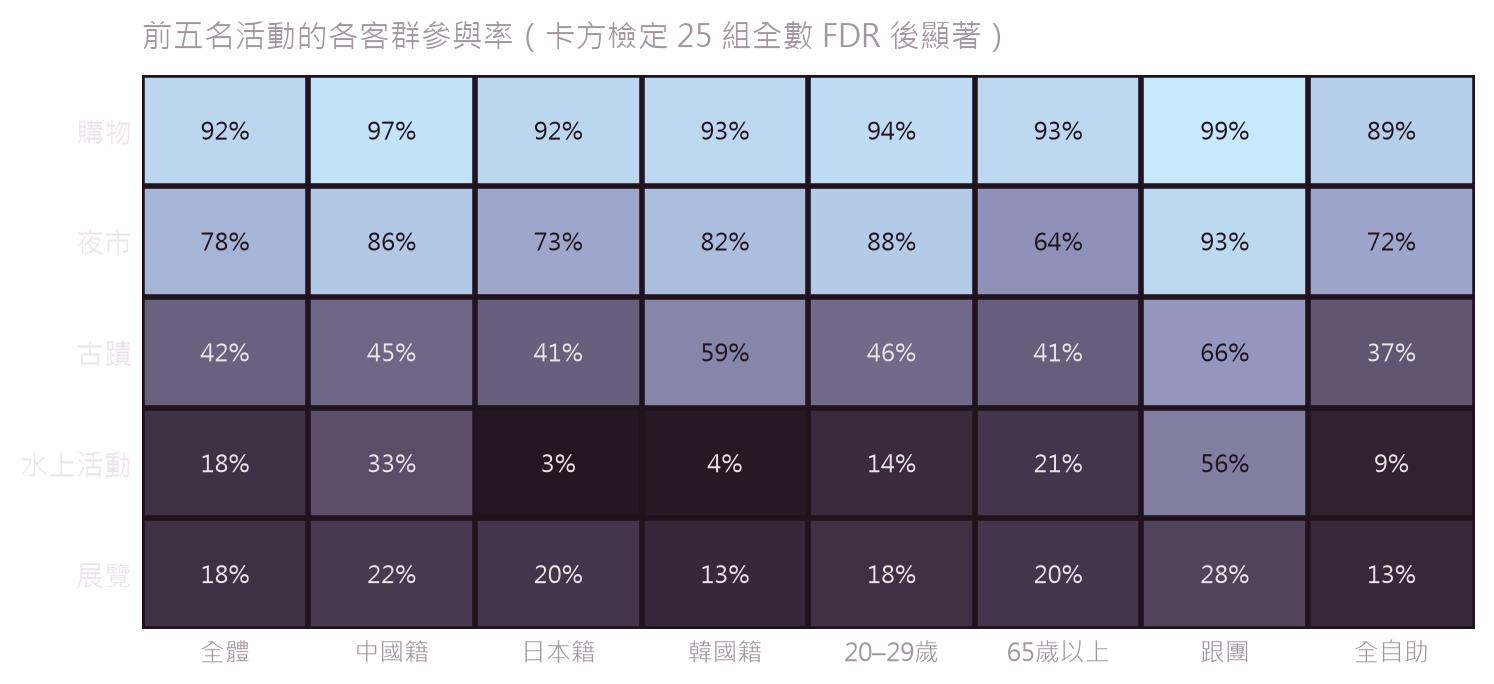
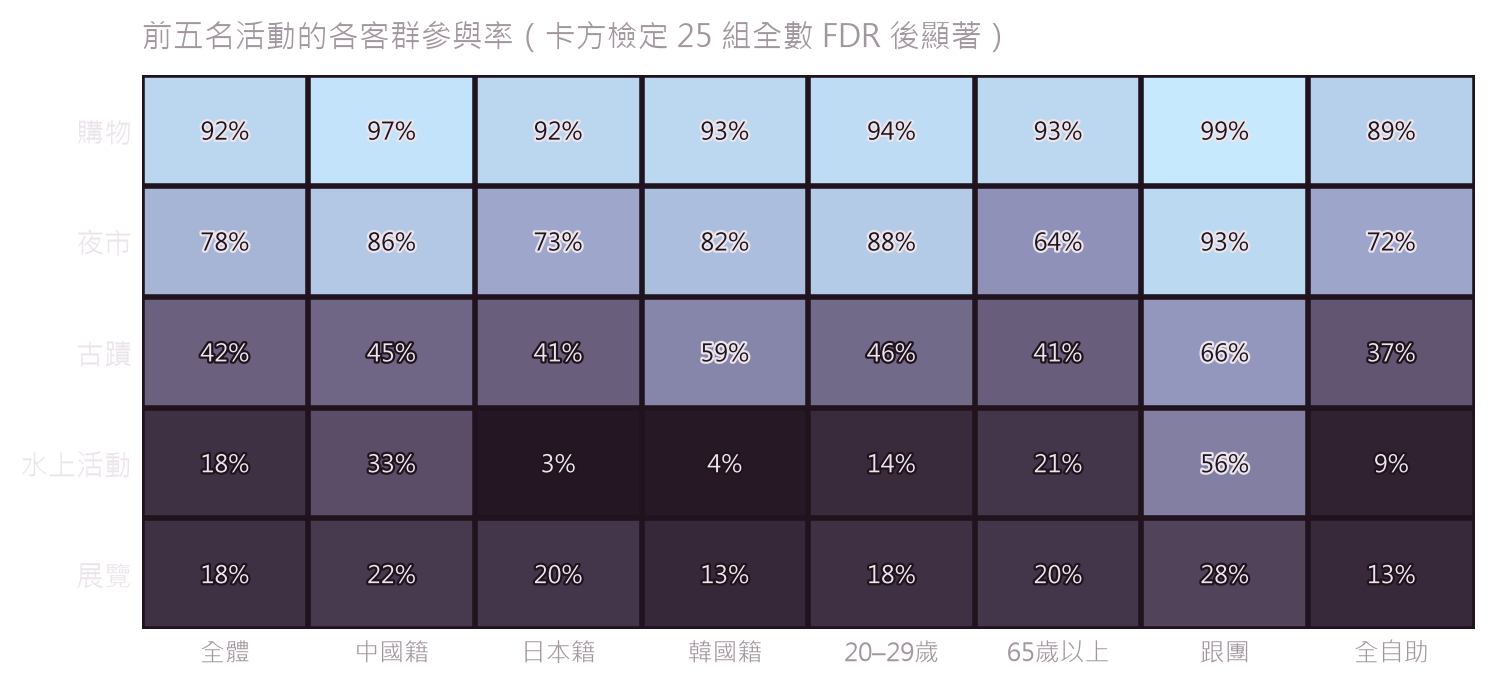
三項發佈前小修：圖表可點開、熱圖數字描邊、導覽列底提到 92%
**圖表點開看原圖**（四個統計頁共 16 張）。手機上圖被縮到 0.17–0.22 倍、
軸標約 5px，那不是「小」是「看不到」。每張圖包一層連到原圖的連結，點一下
用瀏覽器原生的縮放看，桌機也順便有「看大圖」。零 JavaScript、沒有 JS 也能用、
鍵盤可聚焦。包圖的連結不繼承內文那條虛線底線。

**熱圖格內數字加細描邊。**上一版把魔術門檻換成「量對比取高者」，最壞從 2.73
拉到 3.99——但色帶中段（L≈56）對深淺兩個字色都只有約 4.0，那是這條
20.6→91.9 的色帶的固有限制，不是門檻挑錯。描一圈相反色的 1.6px 邊，字就有
自己的高對比邊界，不必動色帶也不必動字色。21 張圖重跑。

**導覽列底 85% → 92%。**亮圖捲到黏性導覽列下方時，muted 連結最壞掉到 4.34
（第三輪抗辯用實測背景場量到的）。提到 92% 後是 5.31，玻璃感仍在——後面
還有 6px 模糊。白名單同步改 `#20131dd9` → `#20131deb`。

六類檢查全綠，十個自我檢查案例全部正確變紅。

diff --git a/src/styles/global.css b/src/styles/global.css
@@ -45,7 +45,7 @@
 	--color-accent: #7998c3;
 	--color-accent-fade: #7998c355; /* 捲軸拉桿＝元素主色 33% */
 	--color-accent-bloom: rgba(121, 152, 195, 0.1); /* 背景右上的藍暈 */
-	--color-nav-bg: #20131dd9; /* 導覽列半透明底＝背景主色 85% */
+	--color-nav-bg: #20131deb; /* 導覽列半透明底＝背景主色 92%。85% 時亮圖捲到導覽列下方，muted 連結掉到 4.41 */
 	/* 背景左下的黑莓暗暈。刻意不上階：它與上面那道藍暈成對，是背景主色的組成，
 	   不是承載層級的表面——上了階會被連帶提亮，那道暈就沒了。 */
 	--color-bloom-dark: #2a1829;
@@ -663,6 +663,12 @@ main > h1 {
 .content a {
 	text-decoration: underline dotted;
 	text-underline-offset: 4px;
+}
+
+/* 圖表外面那層連結只是「點開看原圖」的載體，不是行文裡的連結 */
+.content a:has(> img) {
+	text-decoration: none;
+	display: block;
 }
 
 .content img {

diff --git a/src/content/projects/stats/taiwan-tourism.md b/src/content/projects/stats/taiwan-tourism.md
@@ -63,7 +63,7 @@ date: 2026-07-24
 
 <p>算出來最強的是停留天數，0.507。待越久花越多這件事不意外，不過強度高到可以說，想知道一個旅客花多少錢，先問他待幾天就好。其他因素都遠遠落後，出發前多早開始計畫只有 0.127，來過幾次幾乎是零。</p>
 
-<img src="/images/taiwan-tourism/q1-total-usd.png" alt="總消費金額的相關性與效果量" width="860" loading="lazy" />
+<a href="/images/taiwan-tourism/q1-total-usd.png"><img src="/images/taiwan-tourism/q1-total-usd.png" alt="總消費金額的相關性與效果量" width="860" loading="lazy" /></a>
 
 <p>不過總花費多，可能只是因為待得久。所以我換一個問法：<b>改看每天花多少。</b></p>
 
@@ -75,7 +75,7 @@ date: 2026-07-24
 
 <p>撇開這個陷阱，每天花多少的真正答案是<b>來台目的</b>。來洽公的、來玩的、來探親的，每天的開銷結構完全不同。</p>
 
-<img src="/images/taiwan-tourism/q2-daily-usd.png" alt="日均消費金額的相關性與效果量" width="860" loading="lazy" />
+<a href="/images/taiwan-tourism/q2-daily-usd.png"><img src="/images/taiwan-tourism/q2-daily-usd.png" alt="日均消費金額的相關性與效果量" width="860" loading="lazy" /></a>
 
 <details>
 <summary>為什麼用這些方法</summary>
@@ -109,7 +109,7 @@ date: 2026-07-24
 
 <p>換成上面那個能量化大小的指標，六個因素立刻拉開成十倍以上的差距。最後一名的旅遊方式只有 0.023，統計上確實有差，但小到任何決策都不必理它。<b>顯著跟重要是兩件事。</b></p>
 
-<img src="/images/taiwan-tourism/q3-stay.png" alt="影響停留夜數的類別因子效果量" width="860" loading="lazy" />
+<a href="/images/taiwan-tourism/q3-stay.png"><img src="/images/taiwan-tourism/q3-stay.png" alt="影響停留夜數的類別因子效果量" width="860" loading="lazy" /></a>
 
 <details>
 <summary>為什麼用這些方法</summary>
@@ -131,7 +131,7 @@ date: 2026-07-24
 
 <p>下面這張圖，每一格是某一群人做某件事的比例，顏色越亮代表比例越高。</p>
 
-<img src="/images/taiwan-tourism/q4-activities.png" alt="前五名活動的各客群參與率熱圖" width="860" loading="lazy" />
+<a href="/images/taiwan-tourism/q4-activities.png"><img src="/images/taiwan-tourism/q4-activities.png" alt="前五名活動的各客群參與率熱圖" width="860" loading="lazy" /></a>
 
 <p>購物跟夜市幾乎人人都去，整排都是亮的。這兩件事沒辦法區分客群，因為所有人都做。</p>
 
@@ -141,7 +141,7 @@ date: 2026-07-24
 
 <p>再看另一個角度：什麼決定了一個人選擇跟團還是自己玩？</p>
 
-<img src="/images/taiwan-tourism/q5-travel-type.png" alt="各旅遊方式的國籍組成熱圖" width="860" loading="lazy" />
+<a href="/images/taiwan-tourism/q5-travel-type.png"><img src="/images/taiwan-tourism/q5-travel-type.png" alt="各旅遊方式的國籍組成熱圖" width="860" loading="lazy" /></a>
 
 <p>答案又是國籍，關聯強度 0.190，是六個因素裡最高的。想猜一個旅客會怎麼安排行程，知道他從哪裡來最有幫助。最沒用的是性別，只有 0.061，男生女生選擇跟團或自助的比例幾乎一樣。</p>
 
@@ -171,13 +171,13 @@ date: 2026-07-24
 
 <p>先照標準做法算相關係數看看。</p>
 
-<img src="/images/taiwan-tourism/q6-revisit-yes.png" alt="願意重遊的正相關特徵" width="860" loading="lazy" />
+<a href="/images/taiwan-tourism/q6-revisit-yes.png"><img src="/images/taiwan-tourism/q6-revisit-yes.png" alt="願意重遊的正相關特徵" width="860" loading="lazy" /></a>
 
 <p>結果所有數字都很小，最高的才 0.068。關聯是有的，只是一面倒的資料會把這種係數壓在很低的天花板下。<b>所以這張圖只能看排名，不能看數值大小。</b></p>
 
 <p>反過來看不願意再來的那一邊，我沒有重算一次。因為答案只有「會」跟「不會」兩種，沒有第三個選項，所以「跟不願意的關聯」在數學上就是上面那張圖的數字前面加個負號。確認過確實只有兩類之後，直接翻面就好，重算不會多出任何資訊。</p>
 
-<img src="/images/taiwan-tourism/q7-revisit-no.png" alt="不願意重遊的正相關特徵" width="860" loading="lazy" />
+<a href="/images/taiwan-tourism/q7-revisit-no.png"><img src="/images/taiwan-tourism/q7-revisit-no.png" alt="不願意重遊的正相關特徵" width="860" loading="lazy" /></a>
 
 <p>跟團排第一，退休族第二。</p>
 
@@ -185,7 +185,7 @@ date: 2026-07-24
 
 <p>下面這張是整頁的結論。</p>
 
-<img src="/images/taiwan-tourism/q8-gap.png" alt="願意與不願意重遊兩群的比例差" width="860" loading="lazy" />
+<a href="/images/taiwan-tourism/q8-gap.png"><img src="/images/taiwan-tourism/q8-gap.png" alt="願意與不願意重遊兩群的比例差" width="860" loading="lazy" /></a>
 
 <p>訊號很清楚。願意再來的人裡面，全自助旅客多了 24 個百分點；不願意再來的人裡面，跟團旅客多了 29 個百分點。</p>
 

diff --git a/src/content/projects/stats/taiwan-tourism-2-water.md b/src/content/projects/stats/taiwan-tourism-2-water.md
@@ -19,7 +19,7 @@ date: 2026-07-24
 
 <p>但我在 #1-1 整理活動的時候注意到一件事，讓我覺得沒那麼單純。<b>會去玩水的，根本不是隨機的一群人。</b></p>
 
-<img src="/images/taiwan-tourism/m1-confound.png" alt="水上活動參與率在各客群的落差" width="860" loading="lazy" />
+<a href="/images/taiwan-tourism/m1-confound.png"><img src="/images/taiwan-tourism/m1-confound.png" alt="水上活動參與率在各客群的落差" width="860" loading="lazy" /></a>
 
 <p>全體只有 17.9% 的人下過水。但如果這個人既是中國籍又是跟團，比例衝到 <b>82.1%</b>，十個裡有八個。反過來，日本籍又自己排行程的，只有 3.9%。兩邊差了二十一倍。</p>
 
@@ -33,7 +33,7 @@ date: 2026-07-24
 
 <p>先按旅遊方式把人切開，然後在「同樣都是跟團」的這群人裡面，單獨比較有下水跟沒下水的差別。如果水上活動真的有問題，那在每一組裡面都應該看得到差距。</p>
 
-<img src="/images/taiwan-tourism/m1-strata.png" alt="不願重遊率按旅遊方式分層，有無水上活動的對比" width="860" loading="lazy" />
+<a href="/images/taiwan-tourism/m1-strata.png"><img src="/images/taiwan-tourism/m1-strata.png" alt="不願重遊率按旅遊方式分層，有無水上活動的對比" width="860" loading="lazy" /></a>
 
 <p>結果分成兩邊。</p>
 
@@ -49,7 +49,7 @@ date: 2026-07-24
 
 <p>這個工具叫邏輯迴歸。它的作用是同時放進多個因素一起算，然後回答：<b>把旅遊方式跟國籍都固定住之後，單獨屬於水上活動的效果還剩多少。</b></p>
 
-<img src="/images/taiwan-tourism/m1-forest.png" alt="水上活動對不願重遊的勝算比，未調整與調整後" width="860" loading="lazy" />
+<a href="/images/taiwan-tourism/m1-forest.png"><img src="/images/taiwan-tourism/m1-forest.png" alt="水上活動對不願重遊的勝算比，未調整與調整後" width="860" loading="lazy" /></a>
 
 <p>上面那條是什麼都不控制的原始數字，3.20 倍。下面那條是控制之後，掉到 <b>1.43 倍</b>。</p>
 

diff --git a/src/content/projects/stats/taiwan-tourism-3-model.md b/src/content/projects/stats/taiwan-tourism-3-model.md
@@ -37,7 +37,7 @@ date: 2026-07-24
 
 <p>兩個都做了同一件事：把那 811 個少數樣本的重要性調高，逼模型認真看待他們，不要因為人少就忽略。</p>
 
-<img src="/images/taiwan-tourism/m2-roc.png" alt="測試集 ROC 曲線，邏輯迴歸與隨機森林" width="720" loading="lazy" />
+<a href="/images/taiwan-tourism/m2-roc.png"><img src="/images/taiwan-tourism/m2-roc.png" alt="測試集 ROC 曲線，邏輯迴歸與隨機森林" width="720" loading="lazy" /></a>
 
 <p>這張圖叫 ROC 曲線，看法是曲線越往左上角靠越好。斜的那條虛線代表完全瞎猜。兩個模型都明顯在虛線上方，代表確實學到東西。</p>
 
@@ -72,7 +72,7 @@ date: 2026-07-24
 
 <p>我把考試那份資料，按模型判斷的風險高低排隊，然後切成十等分來看。</p>
 
-<img src="/images/taiwan-tourism/m2-lift.png" alt="風險十等分的提升度與累積捕獲曲線" width="900" loading="lazy" />
+<a href="/images/taiwan-tourism/m2-lift.png"><img src="/images/taiwan-tourism/m2-lift.png" alt="風險十等分的提升度與累積捕獲曲線" width="900" loading="lazy" /></a>
 
 <p>全體平均有 1.28% 的人不想再來。但模型排在最前面那一等分，這個比例是 5.06%，<b>接近平均的四倍</b>。</p>
 
@@ -84,7 +84,7 @@ date: 2026-07-24
 
 <p>知道它有用之後，下一個問題是：它是根據什麼判斷的？</p>
 
-<img src="/images/taiwan-tourism/m2-coef.png" alt="邏輯迴歸係數，正推向不願重遊、負推向願意重遊" width="860" loading="lazy" />
+<a href="/images/taiwan-tourism/m2-coef.png"><img src="/images/taiwan-tourism/m2-coef.png" alt="邏輯迴歸係數，正推向不願重遊、負推向願意重遊" width="860" loading="lazy" /></a>
 
 <p>往右邊的是推向「不想再來」，往左邊的是推向「會再來」。</p>
 

diff --git a/src/content/projects/stats/taiwan-tourism-4-era.md b/src/content/projects/stats/taiwan-tourism-4-era.md
@@ -25,7 +25,7 @@ date: 2026-07-24
 
 <p>先檢查 #1-1 用來排名的那些數字，在兩個年代各是多少。</p>
 
-<img src="/images/taiwan-tourism/m3-effects.png" alt="主力效果量在疫情前後的位移" width="860" loading="lazy" />
+<a href="/images/taiwan-tourism/m3-effects.png"><img src="/images/taiwan-tourism/m3-effects.png" alt="主力效果量在疫情前後的位移" width="860" loading="lazy" /></a>
 
 <table class="st-table">
   <thead><tr><th>結論</th><th>疫情前</th><th>疫情起</th><th>判讀</th></tr></thead>
@@ -55,7 +55,7 @@ date: 2026-07-24
 
 <p>還有一個關鍵的判斷方式：<b>如果這條線橫跨了零，就代表連方向都說不準。</b>可能是正的，可能是負的，也可能根本沒差別。</p>
 
-<img src="/images/taiwan-tourism/m3-era.png" alt="兩個年代的比例差與 95% 信賴區間" width="860" loading="lazy" />
+<a href="/images/taiwan-tourism/m3-era.png"><img src="/images/taiwan-tourism/m3-era.png" alt="兩個年代的比例差與 95% 信賴區間" width="860" loading="lazy" /></a>
 
 <p>先看灰色的點，那是疫情前。每一條線都又短又離零很遠。七個特徵全部成立，跟 #1-1 講的完全一樣，自主性的分界確確實實存在。</p>
 
